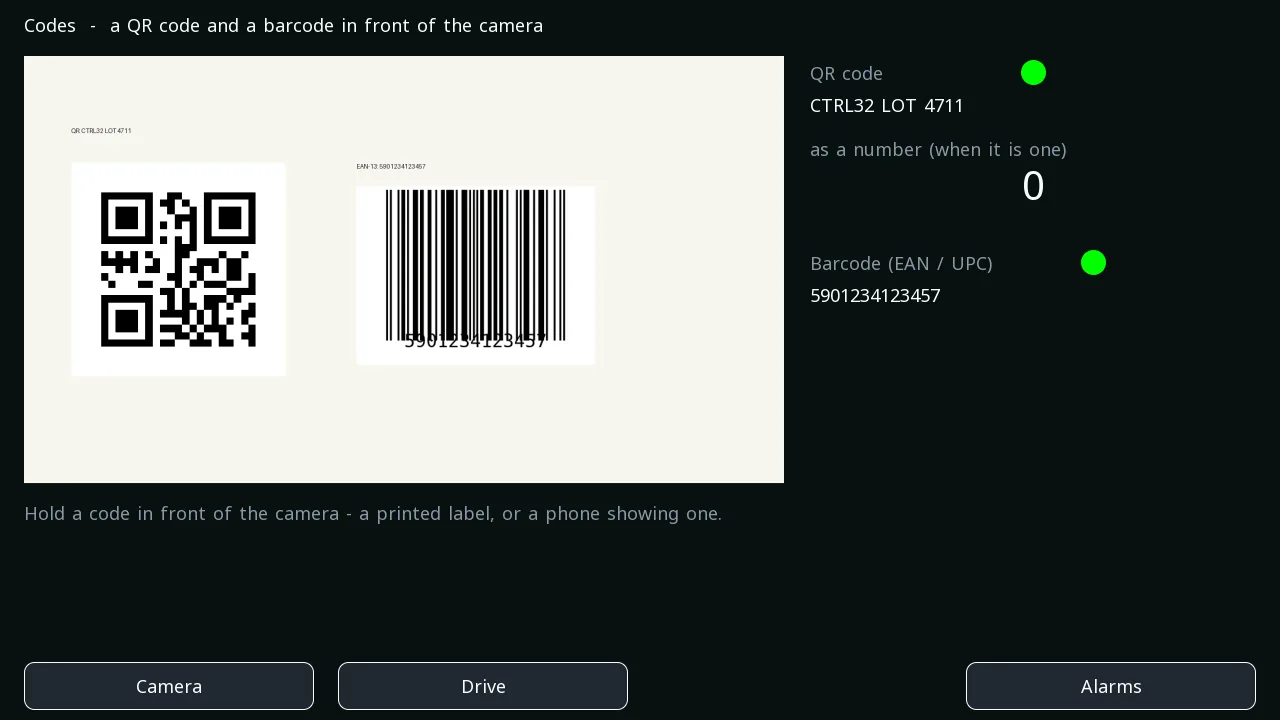
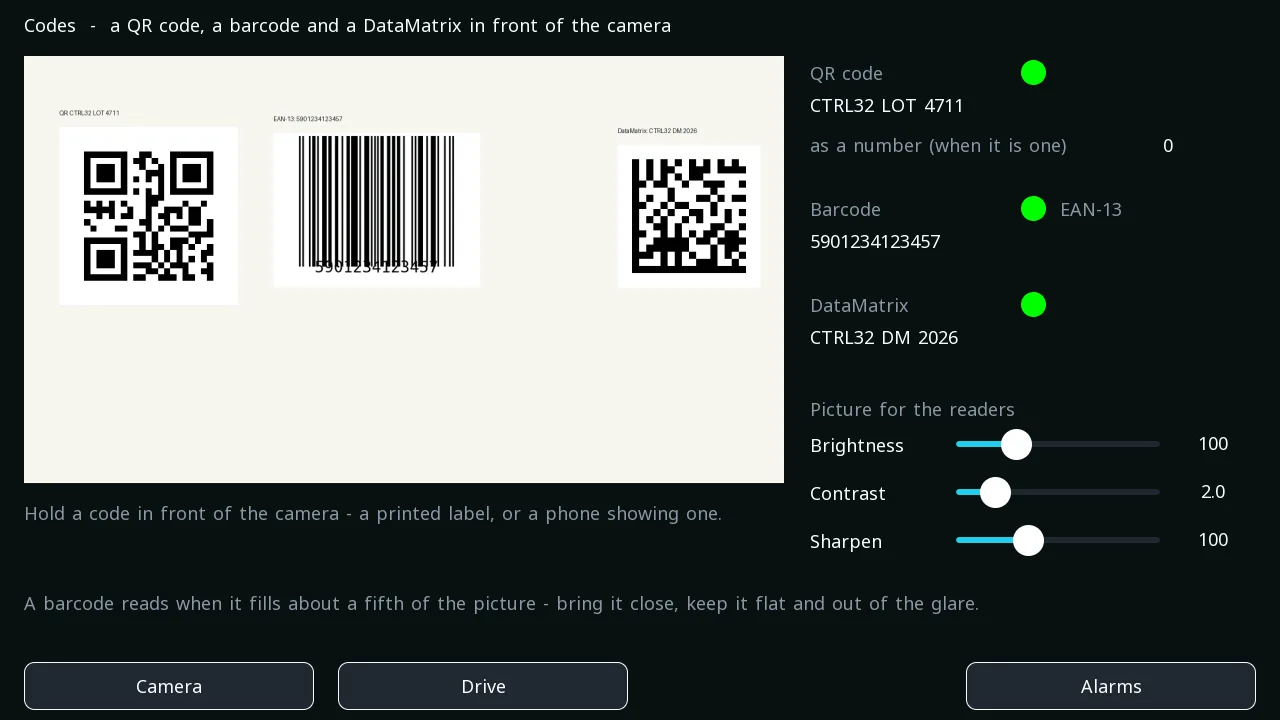
Read code reads every kind (DataMatrix, PDF417, Aztec, Code 128...); the reTerminal example's Codes screen with three readers and the picture sliders

diff --git a/docs/example-reterminal-ecat.md b/docs/example-reterminal-ecat.md
@@ -259,26 +259,39 @@ increments. The double inverter's second axis takes the same objects
 ## Reading codes
 
 The **Codes** screen (a button on the camera screen's title row) reads
-a **QR code and a barcode** from the line's camera. Hold a code in
-front of the camera — a printed label, or a phone showing one — and
-the text appears within half a second, with a lamp for "found" and
-the code as a number when it is one (an EAN-13 label reads as its
-thirteen digits — as text: thirteen digits do not fit a number
+a **QR code, a barcode and a DataMatrix** from the line's camera.
+Hold a code in front of the camera — a printed label, or a phone
+showing one — and the text appears within half a second, with a lamp
+for "found", the barcode's kind beside it (EAN-13, Code 128, ...) and
+the QR's value as a number when it is one (an EAN-13 label reads as
+its thirteen digits — as text: thirteen digits do not fit a number
 exactly, so a barcode's value is its text).
+
+Under the readers sit three sliders — **Brightness, Contrast,
+Sharpen** — for the picture the readers get: a glossy label under a
+lamp wants less light, a soft picture more edge. They are variables
+the blocks read before every run, kept over a restart.
 
 ![The Codes screen: the camera's picture with a QR code and an EAN-13 label, the QR's text and the barcode's digits read off it, a lamp for each](img/example-reterminal-ecat-codes.webp){: .sb-center}
 
-Behind it is a second vision program, `codes`, of three blocks: the
-camera and two **Read code** blocks on its picture, one set to *qr*
-and one to *barcode* (EAN and UPC). Their answers are variables —
-`qr_found`, `qr_text`, `qr_number`, `bar_found`, `bar_text` — so a
-rung can compare a lot number, a recipe can be
-picked by what the label says, and the browser shows the same text.
-The *text* of a code lands in a **STRING** variable, a kind only a
-Linux device has; the *expect* setting of a Read code block is empty
-here, so any code counts — put a text there and *match* says whether
-the code carries it.
+Behind it is a second vision program, `codes`: the camera, then
+**Gamma**, **Local contrast** and **Sharpen** with their settings
+bound to the sliders' variables (`gamma: "@code_gamma"`), and three
+**Read code** blocks on the prepared picture — one set to *qr*, one
+to *barcode* (every one-dimensional code: EAN, UPC, Code 128, Code 39,
+ITF, Codabar, GS1 DataBar) and one to *datamatrix*. Their answers are
+variables — `qr_found`, `qr_text`, `qr_number`, `bar_found`,
+`bar_text`, `bar_kind`, `dm_found`, `dm_text` — so a rung can compare
+a lot number, a recipe can be picked by what the label says, and the
+browser shows the same text. The *text* of a code lands in a
+**STRING** variable, a kind only a Linux device has; the *expect*
+setting of a Read code block is empty here, so any code counts — put
+a text there and *match* says whether the code carries it. A Read
+code block also knows *pdf417*, *aztec* and *any* (every kind at once,
+the *format* output naming what it read).
 
+A barcode reads when it is about a fifth of the picture wide or more
+— bring a small label close, keep it flat and out of the glare.
 The program runs every 500 ms, on its own thread beside the PLC: a
 picture nobody had time to read is dropped, never a cycle.
 

diff --git a/docs/changelog.md b/docs/changelog.md
@@ -62,10 +62,18 @@ capabilities, the first one practically never moves.
   the number - it used to be cut silently.)
 - **The update dialog** shows the download's percent in the middle of
   its bar.
+- **Read code reads every code.** The block knows *datamatrix*,
+  *pdf417*, *aztec* and *any* beside *qr* and *barcode*, and *barcode*
+  now means every one-dimensional code — Code 128, Code 39, ITF,
+  Codabar and GS1 DataBar beside EAN and UPC; a new *format* output
+  says which kind was read. A small label at arm's length reads where
+  it did not before. See [Vision](vision.md).
 - **The reTerminal example reads codes.** Its new Codes screen shows
-  what a QR code and a barcode in front of the line's camera say — two
-  Read code blocks, their text in STRING variables, the number beside
-  it. See [the example](example-reterminal-ecat.md#reading-codes).
+  what a QR code, a barcode and a DataMatrix in front of the line's
+  camera say — three Read code blocks on a picture the operator tunes
+  with three sliders (brightness, contrast, sharpen), their text in
+  STRING variables. See
+  [the example](example-reterminal-ecat.md#reading-codes).
 - **32 vision programs** in a project (8 before), **256 blocks and 128
   results** in a program (64 and 32 before).
 - **A text setting from a STRING variable.** The expected text of Read

diff --git a/docs/vision.md b/docs/vision.md
@@ -78,7 +78,7 @@ Four blocks do a whole check on their own:
 | **Presence** | *present* (yes/no) and the *level* of brightness in an area | is the part in position, is the lens covered |
 | **Colour check** | *match* (yes/no) and the *share* of the area in the chosen colour | the right cap, the right label |
 | **Edge position** | *found* (yes/no) and the *position* of the first edge in an area, in pixels | where the material ends, a mark on a web |
-| **Read code** | *found*, *match* (the expected text), the code's *text* (into a STRING variable) and the code as a *number* when it is one | a QR code or a barcode on the part |
+| **Read code** | *found*, *match* (the expected text), the code's *text* (into a STRING variable), the code as a *number* when it is one, and the *format* that was read | a QR code, a barcode (EAN, UPC, Code 128, Code 39, ITF, Codabar, GS1 DataBar), a DataMatrix, a PDF417 or an Aztec code on the part — or *any* of them at once |
 
 Everything else - cropping, colour ranges, thresholds, filters,
 counting objects, turning pixels into millimetres - is there to build

diff --git a/docs/vision-blocks.md b/docs/vision-blocks.md
@@ -943,14 +943,14 @@ Where is the edge? Walks across an area in one direction and reports the first p
 
 ### Read code
 
-Reads a QR code or a barcode and checks it against the expected text.
+Reads a QR code, a barcode, a DataMatrix, a PDF417 or an Aztec code and checks it against the expected text.
 
 **In:** `src` (picture)  
-**Out:** `found` (yes/no), `match` (yes/no), `number` (number), `text` (text)
+**Out:** `found` (yes/no), `match` (yes/no), `number` (number), `text` (text), `format` (text)
 
 | Setting | Range | Default | Unit | Meaning |
 |:---|:---:|:---:|:---:|:---|
-| `kind` | qr / barcode | qr |  | what kind of code |
+| `kind` | qr / barcode / datamatrix / pdf417 / aztec / any | qr |  | what kind of code - barcode is any one-dimensional code (EAN |
 | `expect` | text | (empty) |  | the text the code must carry (empty = any code) |
 
 ### Match shape
